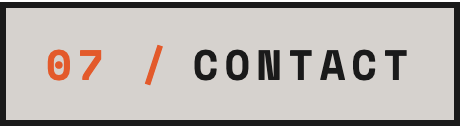
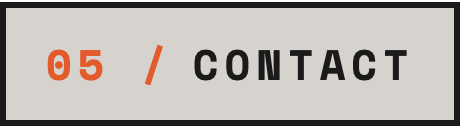
Drop GitHub Activity / Contribution Snake, soften black to dark gray
Removed the streak-stats/activity-graph section and the contribution
snake (with its generator workflow, now unused) - just Contact after
Featured Projects. Renumbered Contact to 05.

The pure-black screen areas (header, footer, stat card readouts) read
as too heavy - switched to a warm dark charcoal (#2A2724) instead,
applied consistently everywhere that color is used.

Changed region(s): [[0.1515, 0.4048, 0.2424, 0.6429]]

diff --git a/README.md b/README.md
@@ -2,35 +2,11 @@
 
 <a href="https://flaviagaglio.github.io/projects"><img src="img/mega-all.png" width="100%" alt="Flavia Gaglio — Computer Engineering Graduate, M.Sc. Student AI & Cybersecurity. About, Education, Skills and Featured Projects: Cartographer, Kepler0, Male Infertility Prediction, Emotion Detection in Italian Text, Keys, Mode Finder, Passwords. Click through to the portfolio for demos, code and write-ups." /></a>
 
-<img src="https://readme-typing-svg.demolab.com?font=Space+Mono&weight=700&size=18&duration=2600&pause=1000&color=E35A2B&background=000000&center=true&vCenter=true&width=1152&height=44&lines=%3E+finds+the+exploit.+also+finds+the+key." alt="finds the exploit. also finds the key." width="1160" />
+<img src="https://readme-typing-svg.demolab.com?font=Space+Mono&weight=700&size=18&duration=2600&pause=1000&color=E35A2B&background=2A2724&center=true&vCenter=true&width=1152&height=44&lines=%3E+finds+the+exploit.+also+finds+the+key." alt="finds the exploit. also finds the key." width="1160" />
 
 <br/><br/>
 
-<img src="img/label-activity.png" height="50" alt="05 / GitHub Activity" />
-
-<br/><br/>
-
-<img src="https://streak-stats.demolab.com?user=flaviagaglio&background=000000&border=1A1A1A&ring=E35A2B&fire=E35A2B&currStreakLabel=E35A2B&sideLabels=EFEAE0&currStreakNum=E35A2B&sideNums=EFEAE0&dates=888888&hide_border=false" alt="GitHub streak stats" />
-
-<br/>
-
-<img src="https://github-readme-activity-graph.vercel.app/graph?username=flaviagaglio&bg_color=000000&color=E35A2B&line=E35A2B&point=EFEAE0&area_color=1A1A1A&title_color=E35A2B&hide_border=false&border_color=1A1A1A" alt="GitHub activity graph" width="100%" />
-
-<br/><br/>
-
-<img src="img/label-snake.png" height="50" alt="06 / Contribution Snake" />
-
-<br/><br/>
-
-<picture>
-  <source media="(prefers-color-scheme: dark)" srcset="https://raw.githubusercontent.com/flaviagaglio/flaviagaglio/output/snake-dark.svg">
-  <source media="(prefers-color-scheme: light)" srcset="https://raw.githubusercontent.com/flaviagaglio/flaviagaglio/output/snake-light.svg">
-  <img alt="contribution snake animation" src="https://raw.githubusercontent.com/flaviagaglio/flaviagaglio/output/snake-dark.svg" width="100%" />
-</picture>
-
-<br/><br/>
-
-<img src="img/label-contact.png" height="50" alt="07 / Contact" />
+<img src="img/label-contact.png" height="50" alt="05 / Contact" />
 
 <br/><br/>
 
